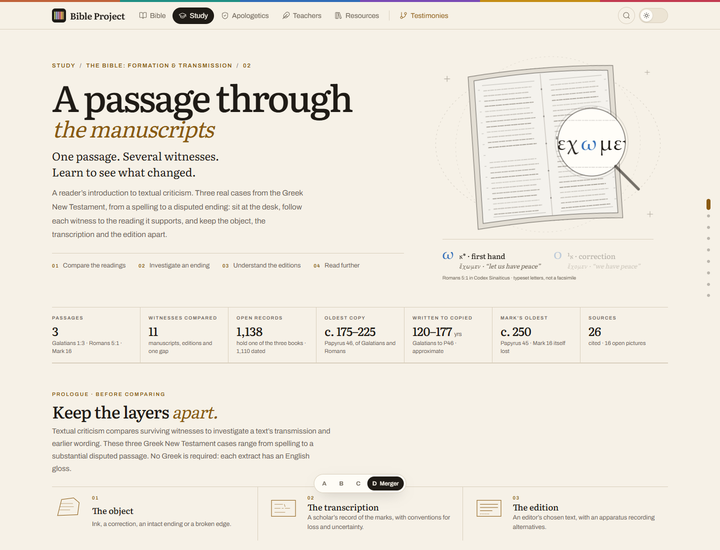
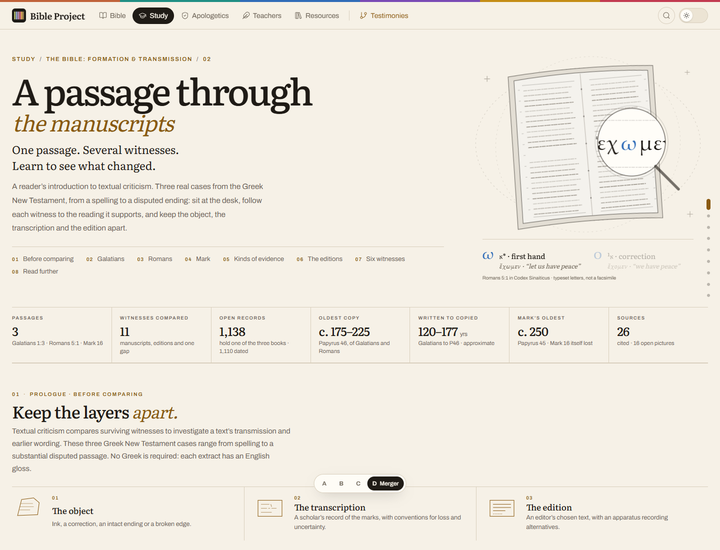
Mock-ups: passage D numbers every section 01-08; the broken edge gets 'Reading the marks' (one word, three records, in its verse) in place of the floating photo; hovering the switch previews the supplied letters

diff --git a/design/passage-directions/js/dir-d.js b/design/passage-directions/js/dir-d.js
@@ -8,8 +8,9 @@ window.Directions = window.Directions || {};
   const { sectionHead, closing, cite, recButton, choice } = PMX;
   const A = window.Directions.a.parts, B = window.Directions.b.parts, C = window.Directions.c.parts;
 
-  // The restoration test: the switch first, then C's torn edge with its three labels, then what the switch shows,
-  // with A's real P46 leaf beside it.
+  // The restoration test: the switch first, then C's torn edge with its three labels, then what the switch shows; on the
+  // right, "Reading the marks" ties each record of the word to its part of the drawing. Pointing at the switch with a
+  // mouse previews the supplied letters; a click or tap turns them on or off for good.
   function restoration(el) {
     el.innerHTML = `<div class="d-edge"><div class="d-edge-main">
         <p class="kicker">${esc(EDGE.where)}</p><h3>${EDGE.title}</h3><p class="cr-lead">${esc(EDGE.lead)}</p>
@@ -20,8 +21,11 @@ window.Directions = window.Directions || {};
           <span class="ch-tag ch-tag-sup"><i></i>Supplied, not seen<small>[ημα] · θέλημα, “will”</small></span></figure>
         <div class="ed-say" role="status"><p>${esc(EDGE.off)}</p></div>
         <small class="pm-note">${esc(EDGE.note)}</small>
-        ${cite(EDGE.links)}${recButton("Q1513469", "Open the record for P46")}</div>${A.p46Photo()}</div>`;
-    const box = el.querySelector(".d-edge");
+        ${cite(EDGE.links)}${recButton("Q1513469", "Open the record for P46")}</div><aside class="d-edge-marks"></aside></div>`;
+    const box = el.querySelector(".d-edge"), sw = el.querySelector(".d-edge-switch");
+    EdgeMarks.mount(el.querySelector(".d-edge-marks"), box);
+    sw.addEventListener("pointerenter", (e) => { if (e.pointerType === "mouse") box.classList.add("is-preview"); });
+    sw.addEventListener("pointerleave", () => box.classList.remove("is-preview"));
     el.querySelector("[data-restore]").addEventListener("change", (e) => {
       box.classList.toggle("is-restored", e.target.checked);
       box.querySelector(".ed-say p").textContent = e.target.checked ? EDGE.on : EDGE.off;
@@ -39,7 +43,7 @@ window.Directions = window.Directions || {};
 
   // A's editions, with the short note on the CBGM replaced by the method in five steps beside a flow diagram.
   function editions(sec) {
-    A.editions(sec, "");
+    A.editions(sec, "06");
     const old = sec.querySelector(".eds-cbgm"), box = document.createElement("div");
     old.replaceWith(box);
     CBGM.mount(box);
@@ -48,7 +52,7 @@ window.Directions = window.Directions || {};
   // C's four kinds of evidence; the first is the broken edge above, the other three keep C's own tests.
   function gaps(sec) {
     const kinds = C.KINDS.map((k) => (k.id === "restore" ? { ...k, title: "At the broken edge", mount: restoration } : k.id === "related" ? { ...k, mount: relatedCopies } : k));
-    sec.innerHTML = `${sectionHead("", "At the broken edge · Four kinds of evidence", "Not every gap <em>is the same gap.</em>", "Presence, absence, loss and restoration are different kinds of evidence. Start at the torn edge of P46, then test the other three on real cases.")}
+    sec.innerHTML = `${sectionHead("05", "At the broken edge · Four kinds of evidence", "Not every gap <em>is the same gap.</em>", "Presence, absence, loss and restoration are different kinds of evidence. Start at the torn edge of P46, then test the other three on real cases.")}
       <div class="c-kinds" role="group" aria-label="Kinds of evidence">${kinds.map((k, i) => `<button type="button" data-kind="${k.id}" aria-pressed="${i === 0}"><svg viewBox="0 0 24 24" aria-hidden="true">${k.icon}</svg><b>${esc(k.title)}</b><small>${esc(k.line)}</small></button>`).join("")}</div>
       <div class="c-kind-stage" aria-live="polite"></div>`;
     const stage = sec.querySelector(".c-kind-stage");
@@ -72,23 +76,32 @@ window.Directions = window.Directions || {};
       scenes: [deskScene("mark"), { title: "Read the join", mount: (el) => CloseReading.endings(el) }, reasonScene("mark")] });
   }
 
-  const STOPS = [["a-landing", "Opening"], ["b-prologue", "Prologue"], ["b-gal", "I · Galatians"], ["b-rom", "II · Romans"], ["b-mark", "III · Mark"], ["d-gaps", "The broken edge"], ["a-editions", "The editions"], ["a-cabinet", "Six witnesses"], ["a-close", "Sources"]];
+  const STOPS = [["a-landing", "Opening"], ["b-prologue", "01 · Before comparing"], ["b-gal", "02 · Galatians"], ["b-rom", "03 · Romans"], ["b-mark", "04 · Mark"], ["d-gaps", "05 · Kinds of evidence"], ["a-editions", "06 · The editions"], ["a-cabinet", "07 · Six witnesses"], ["a-close", "08 · Read further"]];
+  const NUM = Object.fromEntries(STOPS.slice(1).map(([id, label]) => [id, label.slice(0, 2)]));
+
+  // The prologue and the chapters are drawn by B without numbers; give their label lines the house "01 · LABEL" form.
+  function numberHeads(wrap) {
+    for (const id of ["b-prologue", "b-gal", "b-rom", "b-mark"]) {
+      const k = wrap.querySelector(`#${id} .pm-head .kicker, #${id} .bc-side > .kicker`);
+      if (k && !k.querySelector(".ms-num")) k.insertAdjacentHTML("afterbegin", `<span class="ms-num">${NUM[id]}</span><span class="ms-dot" aria-hidden="true">·</span>`);
+    }
+  }
 
   function mount(wrap) {
     const add = (id, cls = "") => { const s = document.createElement("section"); s.id = id; s.className = `t-sec pm-sec sec-${id} ${cls}`; wrap.append(s); return s; };
     const run = (name, fn) => { try { fn(); } catch (error) { console.error(`Direction D: ${name} failed`, error); } };
     run("opening", () => {
       const s = add("a-landing"); A.landing(s);
-      // A's route points at A's own sections; here they live in the chapters and the edge section.
-      s.querySelector('.pm-route a[href="#a-desk"]')?.setAttribute("href", "#b-gal");
-      s.querySelector('.pm-route a[href="#a-edge"]')?.setAttribute("href", "#d-gaps");
+      // A's route names A's own sections; here it lists D's numbered sections, the same as the side dots.
+      s.querySelector(".pm-route").innerHTML = STOPS.slice(1).map(([id, label]) => { const [n, name] = label.split(" · "); return `<a href="#${id}"><span>${n}</span>${esc(name)}</a>`; }).join("");
     });
     run("prologue", () => B.prologue(add("b-prologue")));
     run("chapters", () => chapters(add));
     run("broken edge", () => gaps(add("d-gaps")));
     run("editions", () => editions(add("a-editions")));
-    run("cabinet", () => A.cabinet(add("a-cabinet"), ""));
-    run("closing", () => { add("a-close").innerHTML = closing(""); });
+    run("cabinet", () => A.cabinet(add("a-cabinet"), "07"));
+    run("closing", () => { add("a-close").innerHTML = closing("08"); });
+    run("numbers", () => numberHeads(wrap));
     run("rail", () => B.rail(wrap, STOPS));
   }
   window.Directions.d = { mount };

diff --git a/design/passage-directions/css/d.css b/design/passage-directions/css/d.css
@@ -6,15 +6,14 @@
 .pm-d .bc + .t-sec:not(.bc) { margin-top: 0; padding-top: 3.6rem; border-top: 1px solid var(--line); }
 @media (max-width: 960px) { .pm-d .bc { min-height: 0; padding-block: 3.4rem 6.4rem; } }
 
-/* The broken edge: the switch above C's torn edge, the real P46 leaf beside it */
-.d-edge { display: grid; grid-template-columns: minmax(0, 1fr) minmax(0, 15rem); gap: 2rem 3rem; align-items: start; }
+/* The broken edge: the switch above C's torn edge, "Reading the marks" beside it */
+.d-edge { display: grid; grid-template-columns: minmax(0, 1.15fr) minmax(18rem, .85fr); gap: 2rem 3.4rem; align-items: start; }
 .d-edge-main > h3 { font: 500 1.35rem/1.25 var(--serif); margin: .3rem 0 .4rem; }
 .d-edge-switch { margin: 1.1rem 0 .4rem; padding: .45rem .9rem .45rem .6rem; border: 1px solid var(--line); border-radius: 999px; color: var(--ink); }
 .d-edge-art { max-width: 560px; }
 .d-edge .ch-tag-sup { animation: none; opacity: .35; transition: opacity .6s; }
 .d-edge.is-restored .ch-tag-sup { opacity: 1; }
-.d-edge .a-photo { margin-top: 2.4rem; }
-@media (max-width: 960px) { .d-edge { grid-template-columns: 1fr; } .d-edge .a-photo { max-width: 15rem; margin-top: 0; } }
+@media (max-width: 960px) { .d-edge { grid-template-columns: 1fr; } }
 @media (max-width: 560px) { .d-edge-art { padding-bottom: .4rem; } }
 
 /* The broken edge: room above the drawing for "The break", so the label no longer sits on the papyrus */
@@ -58,3 +57,49 @@
 .cb-key .k-var { border-top-color: var(--revelation); } .cb-key .k-mix { border-top: 1.5px dashed var(--revelation); }
 @media (max-width: 960px) { .cb { grid-template-columns: 1fr; } .cb-fig { position: static; } }
 .cb-svg.is-lit .cb-edge.is-on-mix { opacity: 1; stroke-width: 2; }
+
+/* Supplied letters: a mouse pointing at the switch previews them; the record rows light their part of the drawing */
+.d-edge.is-preview .ed-ghost, .d-edge.is-preview .ed-bracket, .d-edge[data-mark="dip"] .ed-ghost, .d-edge[data-mark="dip"] .ed-bracket { opacity: 1; }
+.d-edge.is-preview .ch-tag-sup, .d-edge[data-mark="dip"] .ch-tag-sup { opacity: 1; }
+.d-edge .ed-greek, .d-edge .ed-sheet, .d-edge .ed-ink, .d-edge .ch-tag { transition: opacity .35s, fill .35s, stroke-width .35s; }
+.d-edge[data-mark] .ed-ink, .d-edge[data-mark] .ed-fibres { opacity: .35; }
+.d-edge[data-mark="ink"] .ed-greek { fill: var(--accent); }
+.d-edge[data-mark="ink"] .ed-sheet { stroke-width: 2.2; }
+.d-edge[data-mark="ink"] .ch-tag-sup, .d-edge[data-mark="ed"] .ch-tag-break, .d-edge[data-mark="dip"] .ch-tag-ink { opacity: .3; }
+.d-edge[data-mark="ed"] .ed-ghost { opacity: 1; fill: var(--ink); stroke: none; }
+.d-edge[data-mark="ed"] .ed-bracket { opacity: 0; }
+.d-edge[data-mark="ed"] .ed-lost, .d-edge[data-mark="ed"] .ed-gapline { opacity: .15; }
+
+.d-edge-marks { padding-left: 2.4rem; border-left: 1px solid var(--line); }
+.em-h { margin: .35rem 0 1rem; font: 500 1.3rem/1.25 var(--serif); }
+.em-h em { color: var(--accent); font-weight: 400; }
+.em-rows { margin: 0; padding: 0; list-style: none; display: grid; gap: .2rem; }
+.em-rows button { display: grid; grid-template-columns: 7.6rem 1fr; gap: .1rem 1rem; align-items: baseline; width: 100%; padding: .75rem .9rem !important; border: 1px solid transparent !important; border-radius: 12px; cursor: pointer; transition: background .25s, border-color .25s; }
+.em-rows button.is-lit { background: color-mix(in srgb, var(--accent) 7%, transparent) !important; }
+.em-rows button[aria-pressed="true"] { border-color: var(--accent) !important; }
+.em-label { grid-row: span 2; font: 600 .62rem/1.4 var(--sans); letter-spacing: .12em; text-transform: uppercase; color: var(--accent); padding-top: .55rem; }
+.em-word { font: 500 1.75rem/1.2 var(--serif); color: var(--ink); }
+.em-br { color: var(--muted); font-weight: 300; }
+.em-sup { color: transparent; -webkit-text-stroke: .8px var(--accent); }
+.em-tear { display: inline-block; width: .5em; height: .9em; margin-left: .12em; vertical-align: -.1em; border-left: 1.5px solid var(--accent); clip-path: polygon(0 0, 60% 12%, 10% 30%, 70% 50%, 15% 70%, 60% 88%, 0 100%); background: color-mix(in srgb, var(--accent) 25%, transparent); }
+.em-line { font-size: .78rem; line-height: 1.55; color: var(--muted); }
+.em-verse { margin-top: 1.2rem; padding-top: 1rem; border-top: 1px solid var(--line); }
+.em-v { margin-top: .4rem; font: 400 1.05rem/1.45 var(--serif); color: var(--muted); }
+.em-v mark { background: none; color: var(--ink); border-bottom: 2px solid var(--accent); font-weight: 500; }
+.em-v-dip { letter-spacing: .02em; }
+.em-v-en { font-style: italic; font-size: .95rem; }
+.em-v-en mark { font-style: italic; }
+.d-edge[data-mark="dip"] .em-v-dip, .d-edge[data-mark="ed"] .em-v-ed, .d-edge[data-mark="ink"] .em-v-dip { color: var(--ink); }
+@media (max-width: 960px) { .d-edge-marks { padding-left: 0; border-left: 0; padding-top: 1.4rem; border-top: 1px solid var(--line); } }
+.em-say { display: none; }
+@media (max-width: 560px) {
+  .em-rows { grid-template-columns: repeat(3, minmax(0, 1fr)); gap: .4rem; }
+  .em-rows button { grid-template-columns: 1fr; padding: .6rem .5rem !important; border-color: var(--line) !important; text-align: center; }
+  .em-rows button[aria-pressed="true"] { border-color: var(--accent) !important; }
+  .em-label { grid-row: auto; padding-top: 0; font-size: .55rem; letter-spacing: .08em; }
+  .em-word { font-size: 1.3rem; }
+  .em-line { display: none; }
+  .em-say { display: block; min-height: 3em; margin-top: .6rem; font-size: .8rem; line-height: 1.5; color: var(--muted); }
+  .em-h { margin-bottom: .7rem; }
+}
+.pm-d .bc-side > .kicker { display: flex; flex-wrap: wrap; align-items: baseline; gap: 0 .45rem; }

diff --git a/design/passage-directions/js/edge-marks.js b/design/passage-directions/js/edge-marks.js
@@ -1,0 +1,47 @@
+// "Reading the marks", direction D's right-hand column beside the torn edge of P46. Each row shows θελ[ημα in one of
+// three records and, while you point at it, lights the matching part of the drawing. Below the rows, the word sits in
+// its verse. Only what the sources show: Michigan's "Opening Text of Galatians" page gives the papyrus, a diplomatic
+// text (a close transcription as in papyrological publications) and a Greek text with accents and breathings, plus
+// its English translation. Its nomina sacra page explains θυ for θεοῦ. SBLGNT gives the printed verse.
+(() => {
+  const SRC = {
+    wholetext: ["Michigan · the opening text of Galatians", "https://apps.lib.umich.edu/files/collections/papyrus/k12/reading/Paul/wholetext.html"],
+    nomina: ["Michigan · nomina sacra in P46", "https://apps.lib.umich.edu/files/collections/papyrus/k12/reading/Paul/nominasacra.html"],
+  };
+  const link = ([label, href]) => `<a href="${href}" target="_blank" rel="noopener noreferrer">${esc(label)}<span aria-hidden="true">↗</span></a>`;
+  const ROWS = [
+    { id: "ink", label: "The ink", word: `θελ<i class="em-tear" aria-hidden="true"></i>`, line: "What the papyrus itself still shows: three letters, then the break." },
+    { id: "dip", label: "The diplomatic text", word: `θελ<span class="em-br">[</span><span class="em-sup">ημα</span>`, line: "A close transcription, as in papyrological publications: no accents, the bracket where the ink stops, and the letters after it supplied." },
+    { id: "ed", label: "The printed text", word: `θέλημα`, line: "Accents and breathings, as in a modern edition. SBLGNT prints the whole word." },
+  ];
+
+  const HINT = "Tap a record to light its part of the drawing.";
+  // At phone width the three rows sit side by side and their explanations share this one line.
+  function mount(panel, box) {
+    panel.innerHTML = `<p class="kicker">Reading the marks</p><h4 class="em-h">One word, <em>three records.</em></h4>
+      <ol class="em-rows" role="group" aria-label="Three records of the word">${ROWS.map((r) => `<li><button type="button" data-mark="${r.id}" aria-pressed="false">
+        <span class="em-label">${esc(r.label)}</span><span class="em-word" lang="grc">${r.word}</span><span class="em-line">${esc(r.line)}</span></button></li>`).join("")}</ol>
+      <p class="em-say" aria-live="polite">${HINT}</p>
+      <div class="em-verse"><p class="kicker">In its verse · Galatians 1:4</p>
+        <p class="em-v em-v-dip" lang="grc" title="Michigan’s diplomatic text">κατα το <mark>θελ[ημα</mark> του θ(εο)υ και π(ατρο)ϲ ημων</p>
+        <p class="em-v em-v-ed" lang="grc" title="SBLGNT">κατὰ τὸ <mark>θέλημα</mark> τοῦ θεοῦ καὶ πατρὸς ἡμῶν</p>
+        <p class="em-v em-v-en">according to the <mark>will</mark> of God our Father</p>
+        <small class="pm-note">The diplomatic line is Michigan’s; θ(εο)υ and π(ατρο)ϲ expand the scribe’s shortened sacred names. The printed line is SBLGNT’s; the English is Michigan’s translation.</small>
+        <p class="pm-cites">${link(SRC.wholetext)}${link(SRC.nomina)}<a href="${PM.SOURCES.gal[1]}" target="_blank" rel="noopener noreferrer">${esc(PM.SOURCES.gal[0])}<span aria-hidden="true">↗</span></a></p></div>`;
+    let pinned = null;
+    const set = (id) => {
+      if (id) box.dataset.mark = id; else delete box.dataset.mark;
+      panel.querySelectorAll("[data-mark]").forEach((b) => b.classList.toggle("is-lit", b.dataset.mark === id));
+      panel.querySelector(".em-say").textContent = ROWS.find((r) => r.id === id)?.line ?? HINT;
+    };
+    panel.addEventListener("pointerover", (e) => { const b = e.target.closest("[data-mark]"); if (b) set(b.dataset.mark); });
+    panel.querySelector(".em-rows").addEventListener("pointerleave", () => set(pinned));
+    panel.addEventListener("click", (e) => {
+      const b = e.target.closest("[data-mark]"); if (!b) return;
+      pinned = pinned === b.dataset.mark ? null : b.dataset.mark;
+      panel.querySelectorAll("[data-mark]").forEach((x) => x.setAttribute("aria-pressed", String(x.dataset.mark === pinned)));
+      set(pinned);
+    });
+  }
+  window.EdgeMarks = { mount };
+})();

diff --git a/design/passage-directions/index.html b/design/passage-directions/index.html
@@ -35,6 +35,7 @@
 <script src="js/dir-b.js"></script>
 <script src="js/dir-c.js"></script>
 <script src="js/cbgm.js"></script>
+<script src="js/edge-marks.js"></script>
 <script src="js/dir-d.js"></script>
 <script src="js/page.js"></script>
 </body>

diff --git a/design/passage-directions/README.md b/design/passage-directions/README.md
@@ -11,7 +11,7 @@ copied into [js/content.js](js/content.js).
 | **A · The desk** | An object-like page. It opens on a codex leaf of Romans 5:1 under a lens, where the first hand's ω slowly gives way to the corrector's ο and back. Then come the layers of evidence as stacked planes, the comparison desk with threads from each witness to its reading, the broken edge beside the real P46 leaf, counting, the editions, and a cabinet of the six witnesses. |
 | **B · Cinema** | A full-screen opening where three witnesses send threads into one variation unit. Then there is one chapter per passage, each with a giant numeral, a histogram of the open copies of that book, scenes that slide sideways, and a line-art landscape at its foot. Side dots with a pill keep your place. |
 | **C · Through the witnesses** | Led by the open data. It opens on the torn edge of P46 at θελ[ημα], where the supplied letters come and go. You choose a passage, then see every open-catalogue copy of that book on a time lane, with the study's own witnesses ringed and their readings named. Then you read the comparison, test four kinds of evidence, and follow the editions on a lane of their own. |
-| **D · Merger** | The owner's combination of the other three. It uses A's opening and B's prologue. Then come B's three chapters (numerals, histograms, sideways scenes, side dots), each ending in "How an editor reasons". Next is one section, *Not every gap is the same gap*, that merges A's broken edge with C's four kinds of evidence. It uses C's torn-edge drawing of P46 with the "Show supplied letters" switch above it, and A's real P46 leaf beside it. After that come A's editions (*An edition is an argument that can be revised*), A's cabinet of six witnesses, and *Follow the evidence further*. GA 304, the P45 question and the copying model appear once, as three of the four kinds of evidence, not as chapter scenes. Owner's second round: in D the desk threads start after each sentence and bend only once clear of all lettering (option `clearText` in [desk.js](js/desk.js)). The copying paths are always shown. The CBGM note is expanded into five steps beside an interactive, illustrative flow diagram ([cbgm.js](js/cbgm.js)), labelled as not a real calculation. |
+| **D · Merger** | The owner's combination of the other three. It uses A's opening and B's prologue. Then come B's three chapters (numerals, histograms, sideways scenes, side dots), each ending in "How an editor reasons". Next is one section, *Not every gap is the same gap*, that merges A's broken edge with C's four kinds of evidence. It uses C's torn-edge drawing of P46 with the "Show supplied letters" switch above it, and A's real P46 leaf beside it. After that come A's editions (*An edition is an argument that can be revised*), A's cabinet of six witnesses, and *Follow the evidence further*. GA 304, the P45 question and the copying model appear once, as three of the four kinds of evidence, not as chapter scenes. Owner's second round: in D the desk threads start after each sentence and bend only once clear of all lettering (option `clearText` in [desk.js](js/desk.js)). The copying paths are always shown. The CBGM note is expanded into five steps beside an interactive, illustrative flow diagram ([cbgm.js](js/cbgm.js)), labelled as not a real calculation. Third round: every section after the opening is numbered 01–08, and the side dots and the opening's route list match. In the broken-edge part, the floating P46 photo is replaced by *Reading the marks* ([edge-marks.js](js/edge-marks.js)). It shows θελ[ημα as the ink, Michigan's diplomatic text and the printed text, each lighting its part of the drawing, with the word in its verse (Galatians 1:4) from Michigan and SBLGNT. Pointing at "Show supplied letters" with a mouse previews the letters. |
 
 ## Files
 
